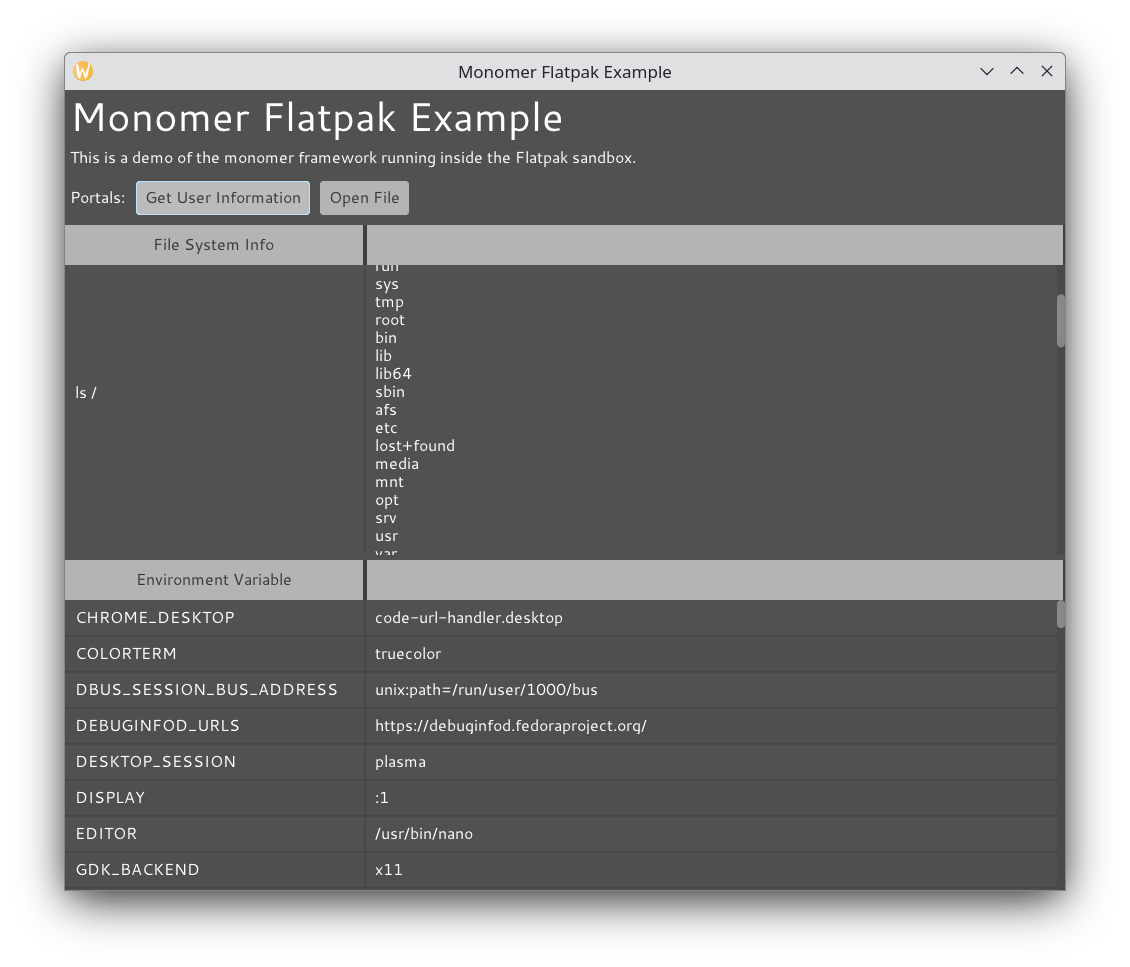
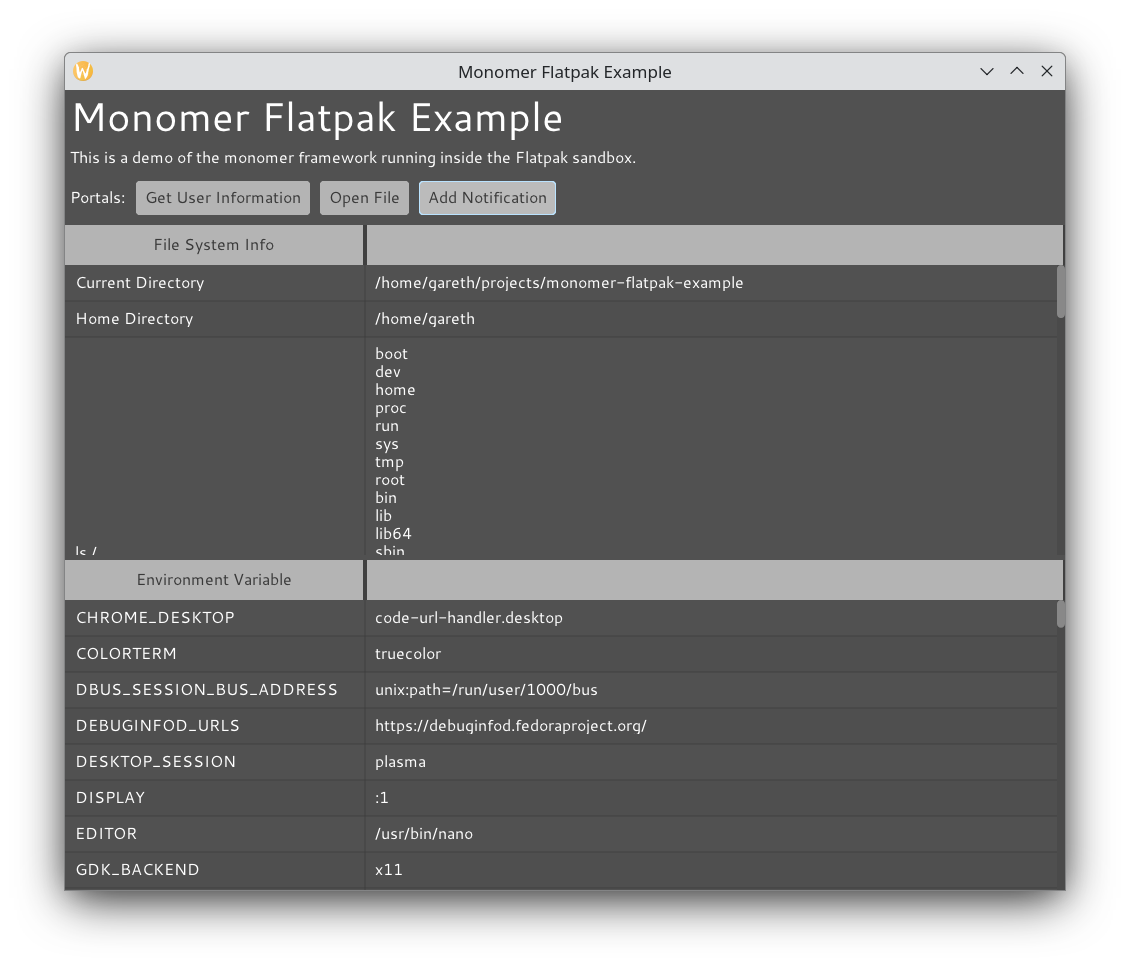
Add notifications portal demo.

diff --git a/README.md b/README.md
@@ -32,7 +32,7 @@ The basic app is working as a Flatpak and has also been published onto [Flathub]
 - You can also publish on Flathub, by following [the normal process](https://github.com/flathub/flathub/wiki/App-Submission).
 
 ## Portals
-The [XDG Desktop Portals APIs](https://flatpak.github.io/xdg-desktop-portal) allow reading/writing files, accessing microphones/webcams, opening URIs, printing, etc. This app currently shows how they can be used to access user information and open files. The [desktop-portal](https://github.com/Dretch/haskell-desktop-portal) library provides an easy-to-use API client.
+The [XDG Desktop Portals APIs](https://flatpak.github.io/xdg-desktop-portal) allow reading/writing files, accessing microphones/webcams, opening URIs, printing, etc. This app includes some buttons to demonstrate basic portal functionality (provided via the [desktop-portal](https://github.com/Dretch/haskell-desktop-portal) library).
 
 ## FAQs
 - **Q. How to load fonts/images within the app?**
